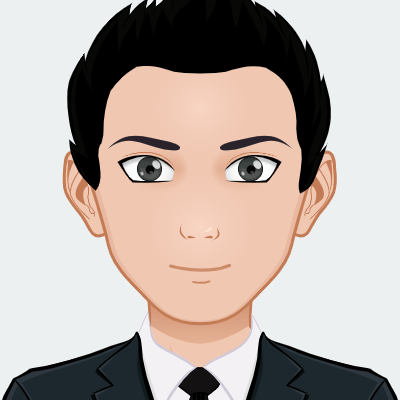
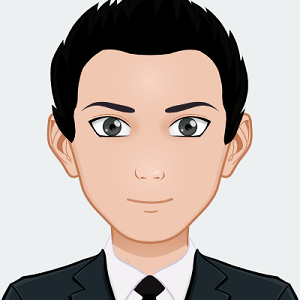
upload

diff --git a/subscribe.html b/subscribe.html
@@ -1,0 +1,58 @@
+<!DOCTYPE html>
+<html lang="en" dir="ltr">
+
+<head>
+  <meta charset="utf-8">
+  <title></title>
+  <link rel="stylesheet" href="https://stackpath.bootstrapcdn.com/bootstrap/4.3.1/css/bootstrap.min.css" integrity="sha384-ggOyR0iXCbMQv3Xipma34MD+dH/1fQ784/j6cY/iJTQUOhcWr7x9JvoRxT2MZw1T" crossorigin="anonymous">
+  <link rel="stylesheet" href="https://cdnjs.cloudflare.com/ajax/libs/font-awesome/4.7.0/css/font-awesome.min.css">
+</head>
+
+<body>
+  <div class="">
+    <h4>Name:</h4>
+    <input type="text" id="name" name="" value="">
+    <p style="display: none; color: red;" id="NameWarn">Enter valid Name</p>
+    <div id="tick1" style="display: none; color: green;">
+      <i class="fa fa-check" aria-hidden="true"></i>
+    </div>
+  </div>
+  <div class="">
+    <h4>Last Name:</h4>
+    <input type="text" id="lastname" name="" value="">
+    <div id="tick2" style="display: none; color: green;">
+      <i class="fa fa-check" aria-hidden="true"></i>
+    </div>
+  </div>
+  <div style="display: block;">
+    <h4>Contact  No.:</h4>
+    <input type="text" id="number" name="" value="">
+    <p style="display: none; color: red;" id="phWarn">Enter valid Contact No.</p>
+    <div id="tick3" style="display: none; color: green;">
+      <i class="fa fa-check" aria-hidden="true"></i>
+    </div>
+  </div>
+  <div style="display: block;">
+    <h4>Email:</h4>
+    <input type="email" id="email" name="" value="">
+    <p style="display: none; color: red;" id="emWarn">Enter valid Email</p>
+    <div id="tick4" style="display: none; color: green;">
+      <i class="fa fa-check" aria-hidden="true"></i>
+    </div>
+  </div>
+  <div>
+    <h4>Password:</h4>
+    <input type="password" id="password" name="" value="">
+    <p><input type="checkbox" id="checkbox" name="" value="" onclick="showPassword()">Show Password</p>
+    <div id="tick5" style="display: none; color: green;">
+      <i class="fa fa-check" aria-hidden="true"></i>
+    </div>
+  </div>
+  <input type="submit" name="button" onclick="emailValidation();numberValidation();">
+</body>
+<script src="https://ajax.googleapis.com/ajax/libs/jquery/3.4.0/jquery.min.js"></script>
+<script src="https://stackpath.bootstrapcdn.com/bootstrap/4.3.1/js/bootstrap.min.js" integrity="sha384-JjSmVgyd0p3pXB1rRibZUAYoIIy6OrQ6VrjIEaFf/nJGzIxFDsf4x0xIM+B07jRM" crossorigin="anonymous"></script>
+<script src="https://cdnjs.cloudflare.com/ajax/libs/popper.js/1.14.7/umd/popper.min.js" integrity="sha384-UO2eT0CpHqdSJQ6hJty5KVphtPhzWj9WO1clHTMGa3JDZwrnQq4sF86dIHNDz0W1" crossorigin="anonymous"></script>
+<script src="subscribe.js" charset="utf-8"></script>
+
+</html>

diff --git a/subscribe.js b/subscribe.js
@@ -1,0 +1,31 @@
+function showPassword() {
+  var pass = document.getElementById("password");
+  pass.required = true;
+  if (document.getElementById("checkbox").checked) {
+    pass.type = "text";
+  } else {
+    pass.type = "password";
+  }
+}
+function numberValidation() {
+  var validPh = /^\d{10}$/;
+  if(document.getElementById("number").value.match(validPh)){
+    document.getElementById("tick3").style.display="inline-block";
+    document.getElementById("phWarn").style.display="none";
+  }
+  else{
+    document.getElementById("phWarn").style.display="block";
+    document.getElementById("tick3").style.display="none";
+  }
+}
+function emailValidation() {
+  var validEm = /^\w+([\.-]?\w+)*@\w+([\.-]?\w+)*(\.\w{2,3})+$/;
+  if(document.getElementById("email").value.match(validEm)){
+    document.getElementById("tick4").style.display="inline-block";
+    document.getElementById("emWarn").style.display="none";
+  }
+  else{
+    document.getElementById("emWarn").style.display="block";
+    document.getElementById("tick4").style.display="none";
+  }
+}

diff --git a/about.html b/about.html
@@ -43,8 +43,8 @@
   <hr>
   <div class="container">
     <div class="row">
-      <div class="col">
-        <img src="profile.png" alt="" style="border: 3px solid; width: 300px; height: 300px; padding: 7px; display: inline-block;">
+      <div class="profile_col col">
+        <img src="profile.png" alt="" style="border: 3px solid; padding: 7px; display: inline-block;">
       </div>
       <div class="col" style="margin-right: 75px;"> &nbsp;
         <div>

diff --git a/styles.css b/styles.css
@@ -47,6 +47,9 @@
   border-radius: 15px;
   padding-top: 40px;
 }
+.profile_col {
+  text-align: center;
+}
 .col {
   margin: 10px 0 0 5%;
 }
